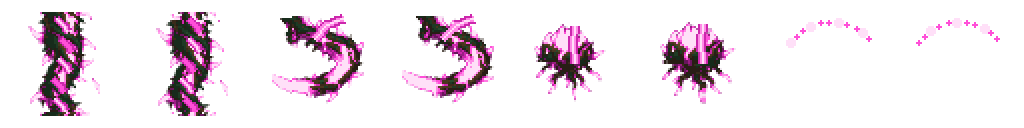
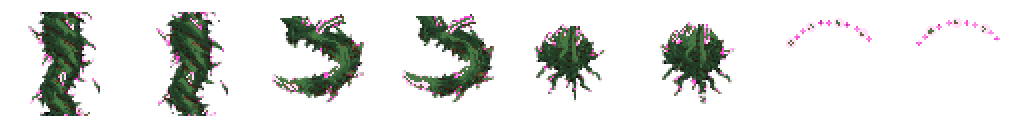
Verdant lash and log: install green v2 art, pink outline on the painted whip, narrow green-with-pink-accent test exception and stand-out check

diff --git a/Pause/Assets/Editor/Tests/VerdantAttackArtTest.cs b/Pause/Assets/Editor/Tests/VerdantAttackArtTest.cs
@@ -11,6 +11,8 @@ using static AttackTestKit;
 //   * the links tile: stacking N link cells at the painted period (104 px of vine per 128 px cell) gives a continuous column,
 //     every joint's rows overlap, in every a/b order; the lash draws its links at that period
 //   * AttackLash / AttackLog really pick the painted cells (also through the Thornlash / Timber Hauler specs); hit shapes unchanged
+//   * the colour exception (see Palette): these two files are GREEN with a pink accent, not the >= 30 % pink of every other hostile drawing
+//   * the painted whip and trunk still stand out of every installed Verdant backdrop variant (Contrast): the pink rim / tip / outline carry them
 //   * stepping a whip and a trunk allocates nothing
 public static class VerdantAttackArtTest
 {
@@ -36,6 +38,8 @@ public static class VerdantAttackArtTest
             {
                 Files();
                 Loops();
+                Palette();
+                Contrast();
                 Tiling();
                 LashUsesIt();
                 LogUsesIt();
@@ -250,5 +254,148 @@ public static class VerdantAttackArtTest
         Check("a painted whip's whole life allocates nothing after warm-up (" + u1 + " bytes; meter " + (meter ? "ok" : "blind") + ")", meter && u1 == 0);
         Check("a painted trunk's whole life allocates nothing after warm-up (" + u2 + " bytes)", meter && u2 == 0);
         EliteSystem.Clear();
+    }
+
+    // ---- the colour exception -----------------------------------------------------------------------------------
+    //
+    // DOCUMENTED, NARROW EXCEPTION to the "hostile art is >= 30 % pink-family" rule (ShotSkinTest.MinPinkShare): the Verdant vine lash and
+    // rolling log (and only these two files; the Thornlash / Timber Hauler elites draw the same ones) are painted GREEN so the jungle's own
+    // weapons read as plants, with a pink ACCENT: a thin rim, the hooked thorn tip, the cut rings of the trunk (the dotted tell arc stays pink).
+    // So per cell: pink share 6..18 % and green share >= 55 % of the opaque pixels. No other world's art, shot or procedural sprite is
+    // loosened (the 30 % checks in ShotSkinTest, AttackLashTest, AttackFairnessTest, ShotMotionTest still run on everything else), and the
+    // hostile cue stays meaningful: the pink accent must exist in every working cell (rim / tip / rings) and the stand-out test below
+    // keeps the whip and trunk 3:1 clear of the backdrop (the in-code outline, AttackLash's / AttackLog's ShotOutline rim, carries the rest).
+    public const float ExceptionPinkMin = .06f, ExceptionPinkMax = .18f, ExceptionGreenMin = .55f;
+
+    static void Shares(Color32[] px, out float pink, out float green, out int pinkPx, out int opaque)
+    {
+        int p = 0, g = 0, n = 0;
+        foreach (var c in px)
+        {
+            if (c.a <= 24) continue;
+            n++;
+            Color.RGBToHSV(c, out float h, out float sat, out float v);
+            float deg = h * 360f;
+            if ((deg >= 300f && deg <= 340f && sat > .2f) || (sat < .22f && v > .82f)) p++;
+            else if (deg >= 70f && deg <= 170f && sat > .2f) g++;
+        }
+        opaque = n; pinkPx = p;
+        pink = n > 0 ? p / (float)n : 0f;
+        green = n > 0 ? g / (float)n : 0f;
+    }
+
+    static void Palette()
+    {
+        foreach (var (name, cw, ch, cols, cells) in new[] { ("verdant_attack_lash", 128, 128, 8, 8), ("verdant_attack_log", 256, 128, 4, 8) })
+        {
+            var t = Read(name);
+            float lowP = 9f, highP = -1f, lowG = 9f;
+            int minPinkPx = int.MaxValue, workCells = 0;
+            float dashMin = 9f;
+            for (int i = 0; i < cells; i++)
+            {
+                var px = Rgba(t, (i % cols) * cw, (i / cols) * ch, cw, ch);
+                Shares(px, out float pink, out float green, out int pinkPx, out int opaque);
+                if (opaque == 0) continue;
+                // the lash's dash cells (6, 7) are the dotted tell arc: they stay fully pink, under the ordinary >= 30 % rule
+                if (name.EndsWith("lash") && i >= 6) { dashMin = Mathf.Min(dashMin, pink); workCells++; continue; }
+                workCells++;
+                lowP = Mathf.Min(lowP, pink); highP = Mathf.Max(highP, pink); lowG = Mathf.Min(lowG, green);
+                minPinkPx = Mathf.Min(minPinkPx, pinkPx);
+            }
+            if (name.EndsWith("lash")) Check("verdant_attack_lash: the dotted tell arc (dash cells) stays pink-family: " + (dashMin * 100f).ToString("F0") + " % >= " + (ShotSkinTest.MinPinkShare * 100f) + " %", dashMin >= ShotSkinTest.MinPinkShare);
+            Debug.Log("[VERDANTART] " + name + " pink " + (lowP * 100f).ToString("F1") + ".." + (highP * 100f).ToString("F1") + " %, least green " + (lowG * 100f).ToString("F1") + " %, fewest pink px " + minPinkPx);
+            Check(name + ": green with a pink accent in every one of its " + workCells + " cells: pink " + (ExceptionPinkMin * 100f) + ".." + (ExceptionPinkMax * 100f) +
+                  " % (got " + (lowP * 100f).ToString("F1") + ".." + (highP * 100f).ToString("F1") + "), green >= " + (ExceptionGreenMin * 100f) + " % (least " + (lowG * 100f).ToString("F1") + ")",
+                  workCells == cells && lowP >= ExceptionPinkMin && highP <= ExceptionPinkMax && lowG >= ExceptionGreenMin);
+            Check(name + ": the pink rim / thorn tip / cut rings exist in every cell (fewest " + minPinkPx + " pink px, need >= 40)", minPinkPx >= 40);
+        }
+    }
+
+    // ---- stand-out over the Verdant backdrop ---------------------------------------------------------------------
+    //
+    // HostileProjectileTest's rule on real renders: pixels the drawing adds that are MinContrast (3:1) clear of the backdrop behind them.
+    // Every installed Verdant backdrop variant at 2 / 12 / 40 s; the whip's links (window = one link) and the trunk (its whole box).
+    static void Contrast()
+    {
+        var spec = BackdropCatalog.For("Verdant");
+        var picker = BackdropVariants.For("Verdant");
+        int worstLink = int.MaxValue, worstNaked = int.MaxValue, worstLog = int.MaxValue, worstLogNaked = int.MaxValue;
+        long sumDressed = 0, sumNaked = 0;
+        string worstWhere = "";
+        for (int v = 1; v <= Mathf.Max(1, spec.variantSets); v++)
+        {
+            if (spec.variantSets > 0 && !picker.Installed(v)) continue;
+            var cam = HostileProjectileTest.Fresh(2);
+            cam.aspect = HostileProjectileTest.RW / (float)HostileProjectileTest.RH;
+            picker.Force = spec.variantSets > 0 ? v : 0;
+            var go = new GameObject("~Backdrop");
+            var wb = go.AddComponent<WorldBackdrop>();
+            wb.Show("Verdant", false);
+            var rt = new RenderTexture(HostileProjectileTest.RW, HostileProjectileTest.RH, 24);
+            cam.targetTexture = rt;
+            var tex = new Texture2D(HostileProjectileTest.RW, HostileProjectileTest.RH, TextureFormat.RGB24, false);
+            float clock = 0f;
+            foreach (float at in new[] { 2f, 12f, 40f })
+            {
+                while (clock < at) { wb.Step(1f / 60f); clock += 1f / 60f; }
+                var bg = HostileProjectileTest.Grab(cam, rt, tex);
+                float ppu = HostileProjectileTest.RH / (cam.orthographicSize * 2f);
+                // the whip hangs straight down from (0.3, 3.5): its links centred on the joints' midpoints
+                var l = AttackLash.Arm(LashSpec.Standard(2), new Vector2(.3f, 3.5f), new Vector2(.3f, -2.5f), 1f, null);
+                l.Ignite();
+                for (int i = 0; i < 8; i++) { AttackPools.StepAll(Dt); HostileShots.Resolve(); }
+                int linkMin = int.MaxValue, nakedMin = int.MaxValue;
+                for (int pass = 0; pass < 2; pass++)
+                {
+                    bool naked = pass == 1;
+                    SetRims(l.gameObject, !naked);
+                    var fg = HostileProjectileTest.Grab(cam, rt, tex);
+                    for (int i = 0; i < l.Links; i++)
+                    {
+                        Vector2 m = (l.Joint(i) + l.Joint(i + 1)) * .5f;
+                        var c = cam.WorldToScreenPoint(new Vector3(m.x, m.y, 0f));
+                        float half = (l.Joint(i + 1) - l.Joint(i)).magnitude * .5f * ppu + 6f;
+                        int n = HostileProjectileTest.StandOut(fg, bg, c, half);
+                        if (naked) { nakedMin = Mathf.Min(nakedMin, n); sumNaked += n; }
+                        else { if (n < linkMin) { linkMin = n; worstWhere = "v" + v + " " + at + " s link " + i; } sumDressed += n; }
+                    }
+                }
+                worstLink = Mathf.Min(worstLink, linkMin); worstNaked = Mathf.Min(worstNaked, nakedMin);
+                l.gameObject.SetActive(false);
+                AttackPools.Forget();
+                // the trunk lying across the canopy
+                var lg = AttackLog.Arm(LogSpec.Standard(2), new Vector2(-2f, 3f), new Vector2(.5f, 1f), 1f, 1.2f, null);
+                lg.Ignite();
+                for (int i = 0; i < 20; i++) { AttackPools.StepAll(Dt); HostileShots.Resolve(); }
+                for (int pass = 0; pass < 2; pass++)
+                {
+                    SetRims(lg.gameObject, pass == 0);
+                    var fg = HostileProjectileTest.Grab(cam, rt, tex);
+                    var c = cam.WorldToScreenPoint(lg.BodyRenderer.transform.position);
+                    float half = lg.BodyRenderer.bounds.extents.x * ppu + 4f;
+                    int n = HostileProjectileTest.StandOut(fg, bg, c, half);
+                    if (pass == 0) worstLog = Mathf.Min(worstLog, n); else worstLogNaked = Mathf.Min(worstLogNaked, n);
+                }
+                AttackPools.Forget();
+            }
+            cam.targetTexture = null;
+            Object.DestroyImmediate(rt);
+            Object.DestroyImmediate(tex);
+            Object.DestroyImmediate(go);
+            picker.Force = 0;
+        }
+        Debug.Log("[VERDANTART] CONTRAST whip: fewest 3:1 px per link window " + worstLink + " with the outline (" + worstWhere + "), " + worstNaked + " without; log: " + worstLog + " with, " + worstLogNaked + " without; sums " + sumDressed + " vs " + sumNaked);
+        Check("the painted whip stands out of every Verdant backdrop variant: every link has >= " + HostileProjectileTest.MinStandOutPixels + " px at " + HostileProjectileTest.MinContrast + ":1 (fewest " + worstLink + "; without its outline " + worstNaked + ")",
+              worstLink >= HostileProjectileTest.MinStandOutPixels);
+        Check("the painted trunk stands out of every Verdant backdrop variant: >= " + HostileProjectileTest.MinStandOutPixels + " px at " + HostileProjectileTest.MinContrast + ":1 (fewest " + worstLog + "; without its outline " + worstLogNaked + ")",
+              worstLog >= HostileProjectileTest.MinStandOutPixels);
+    }
+
+    // shows / hides the outline renderers (the children named Rim, and the log's Outline) under a hazard
+    static void SetRims(GameObject root, bool on)
+    {
+        foreach (var sr in root.GetComponentsInChildren<SpriteRenderer>(true))
+            if (sr.name == "Rim" || sr.name == "Outline") sr.forceRenderingOff = !on;
     }
 }

diff --git a/Pause/Assets/Scripts/Gameplay/Enemies/Attacks/AttackLash.cs b/Pause/Assets/Scripts/Gameplay/Enemies/Attacks/AttackLash.cs
@@ -51,7 +51,7 @@ public sealed class AttackLash : AttackHazard
     public const int MinLinks = 4, MaxLinks = 10, MaxDashes = 12;
     public const float RetractSeconds = .24f;
     public const int PoolSize = 3;
-    public const int SortLinks = 12, SortTip = 13, SortRoot = 14, SortDash = 11;
+    public const int SortLinks = 12, SortTip = 13, SortRoot = 14, SortDash = 11, SortRim = 10;
     public const float FlickerFps = 10f;
     public const float MinCorridor = 1.4f, CorridorMargin = .25f;
     // the drawn chain is wider than it hits (the doc's 2x rule): the hit is HitHalf, the link tile .375 u
@@ -67,9 +67,16 @@ public sealed class AttackLash : AttackHazard
         go.transform.SetParent(root, false);
         var l = go.AddComponent<AttackLash>();
         l.links = new SpriteRenderer[MaxLinks];
-        for (int i = 0; i < MaxLinks; i++) l.links[i] = Piece(go.transform, "Link" + i, SortLinks);
+        l.linkRims = new SpriteRenderer[MaxLinks];
+        for (int i = 0; i < MaxLinks; i++)
+        {
+            l.links[i] = Piece(go.transform, "Link" + i, SortLinks);
+            l.linkRims[i] = Piece(l.links[i].transform, "Rim", SortRim);
+        }
         l.tip = Piece(go.transform, "Tip", SortTip);
+        l.tipRim = Piece(l.tip.transform, "Rim", SortRim);
         l.rootBud = Piece(go.transform, "Root", SortRoot);
+        l.rootRim = Piece(l.rootBud.transform, "Rim", SortRim);
         l.dashes = new SpriteRenderer[MaxDashes];
         for (int i = 0; i < MaxDashes; i++) l.dashes[i] = Piece(go.transform, "Dash" + i, SortDash);
         l.Register();
@@ -166,8 +173,13 @@ public sealed class AttackLash : AttackHazard
 
     // ---- instance ----
 
-    SpriteRenderer[] links, dashes;
-    SpriteRenderer tip, rootBud;
+    SpriteRenderer[] links, dashes, linkRims;
+    SpriteRenderer tip, rootBud, tipRim, rootRim;
+    // The painted whip (Verdant) is green on a green canopy: it wears ShotOutline's outline behind its art (the pale pink-white trace and, on
+    // bright worlds, the dark keyline), the way the rolling log does. Resolved once per take; the procedural whips carry their own pink keyline.
+    readonly Sprite[] linkRimSprites = new Sprite[2], tipRimSprites = new Sprite[2], rootRimSprites = new Sprite[2];
+    Color rimTint;
+    bool rimmed;
     LashSpec spec;
     Vector2 root, target;
     float startRad, length, linkLen, room, fadeFor;
@@ -222,7 +234,40 @@ public sealed class AttackLash : AttackHazard
             rootSprites[i] = AttackHazardArt.LashRoot(s.world, i, bold);
             dashSprites[i] = AttackHazardArt.LashDash(s.world, i, bold);
         }
+        ResolveRims(s.world);
         BeginTell(tellSeconds, by, s.world);
+    }
+
+    // drawn sizes snap to 5 cm so the outline cache stays small (a whip's length varies with the pilot's place)
+    static float Snap(float v) => Mathf.Max(.05f, Mathf.Round(v * 20f) / 20f);
+
+    void ResolveRims(int world)
+    {
+        rimmed = AttackHazardArt.LashArt(world);
+        var trace = HostileShotPalette.Trace(PreviewTint);
+        rimTint = bold ? ShotOutline.BoldTrace(trace) : trace;
+        for (int i = 0; i < 2; i++)
+        {
+            var l = linkSprites[i]; var t = tipSprites[i]; var r = rootSprites[i];
+            linkRimSprites[i] = rimmed && l != null ? ShotOutline.For(l, Snap(linkLen / AttackHazardArt.LinkFill(world)), bold) : null;
+            tipRimSprites[i] = rimmed && t != null ? ShotOutline.For(t, Snap(TipDraw), bold) : null;
+            rootRimSprites[i] = rimmed && r != null ? ShotOutline.For(r, Snap(.7f / Mathf.Max(.01f, r.bounds.size.x) * r.bounds.size.y), bold) : null;
+        }
+    }
+
+    // One outline renderer under `owner`'s art: same transform, the rim's own sprite and the trace colour.
+    void PlaceRim(SpriteRenderer rim, Sprite sprite, bool on, float alpha)
+    {
+        rim.sprite = sprite;
+        rim.enabled = on && sprite != null;
+        if (!rim.enabled) return;
+        var tr = rim.transform;
+        tr.localPosition = Vector3.zero;
+        tr.localRotation = Quaternion.identity;
+        tr.localScale = Vector3.one;
+        var c = rimTint;
+        c.a = alpha;
+        rim.color = c;
     }
 
     // The root rides `t` (+ a local offset) while the whip telegraphs and sweeps; the aim stays where it was locked.
@@ -295,6 +340,9 @@ public sealed class AttackLash : AttackHazard
         if (dashes != null) for (int i = 0; i < dashes.Length; i++) dashes[i].enabled = false;
         if (tip != null) tip.enabled = false;
         if (rootBud != null) rootBud.enabled = false;
+        if (linkRims != null) for (int i = 0; i < linkRims.Length; i++) linkRims[i].enabled = false;
+        if (tipRim != null) tipRim.enabled = false;
+        if (rootRim != null) rootRim.enabled = false;
         LinksShown = DashesShown = 0;
     }
 
@@ -307,7 +355,7 @@ public sealed class AttackLash : AttackHazard
         for (int i = 0; i < links.Length; i++)
         {
             var sr = links[i];
-            if (i >= upTo || i >= count) { sr.enabled = false; continue; }
+            if (i >= upTo || i >= count) { sr.enabled = false; linkRims[i].enabled = false; continue; }
             Vector2 a = joints[i], b = joints[i + 1];
             Vector2 d = b - a;
             float len = d.magnitude;
@@ -315,6 +363,7 @@ public sealed class AttackLash : AttackHazard
             sr.sprite = spr;
             sr.enabled = spr != null && len > 1e-4f;
             sr.color = tint;
+            PlaceRim(linkRims[i], linkRimSprites[(frame + i) & 1], sr.enabled && rimmed, alpha);
             var tr = sr.transform;
             Vector2 c = (a + b) * .5f;
             tr.position = new Vector3(c.x, c.y, 0f);
@@ -329,6 +378,7 @@ public sealed class AttackLash : AttackHazard
         tip.sprite = ts;
         tip.enabled = ts != null && upTo >= count && em > 1e-4f;
         tip.color = tint;
+        PlaceRim(tipRim, tipRimSprites[frame & 1], tip.enabled && rimmed, alpha);
         if (tip.enabled)
         {
             Vector2 u = e / em;
@@ -342,6 +392,7 @@ public sealed class AttackLash : AttackHazard
         rootBud.sprite = rs;
         rootBud.enabled = rs != null;
         rootBud.color = Color.white;
+        PlaceRim(rootRim, rootRimSprites[frame & 1], rootBud.enabled && rimmed, 1f);
         rootBud.transform.position = new Vector3(root.x, root.y, 0f);
         rootBud.transform.rotation = Quaternion.identity;
         rootBud.transform.localScale = Vector3.one * (rs != null ? .7f / Mathf.Max(.01f, rs.bounds.size.x) : 1f);

diff --git a/Pause/Assets/Editor/Tests/HostileProjectileTest.cs b/Pause/Assets/Editor/Tests/HostileProjectileTest.cs
@@ -87,7 +87,7 @@ public static class HostileProjectileTest
 
     // ---- fixtures -----------------------------------------------------------
 
-    static Camera Fresh(int world = 0)
+    internal static Camera Fresh(int world = 0)
     {
         EliteSystem.Clear();
         EditorSceneManager.NewScene(NewSceneSetup.EmptyScene, NewSceneMode.Single);
@@ -287,7 +287,7 @@ public static class HostileProjectileTest
 
     // ---- 2. contrast over every world --------------------------------------
 
-    const int RW = 540, RH = 960;
+    internal const int RW = 540, RH = 960;
 
     static void ContrastOverEveryWorld()
     {
@@ -619,7 +619,7 @@ public static class HostileProjectileTest
         foreach (var (shot, _) in list) if (shot is EliteShot) shot.gameObject.SetActive(on);
     }
 
-    static Color[] Grab(Camera cam, RenderTexture rt, Texture2D tex)
+    internal static Color[] Grab(Camera cam, RenderTexture rt, Texture2D tex)
     {
         cam.Render();
         var old = RenderTexture.active;
@@ -634,7 +634,7 @@ public static class HostileProjectileTest
 
     // Pixels within `half` of c (a square) whose luminance in fg stands
     // MinContrast clear of the mean backdrop luminance over that square.
-    static int StandOut(Color[] fg, Color[] bg, Vector3 c, float half)
+    internal static int StandOut(Color[] fg, Color[] bg, Vector3 c, float half)
     {
         int r = Mathf.CeilToInt(half), n = 0, count = 0;
         int x0 = Mathf.Max(0, (int)c.x - r), x1 = Mathf.Min(RW - 1, (int)c.x + r);
